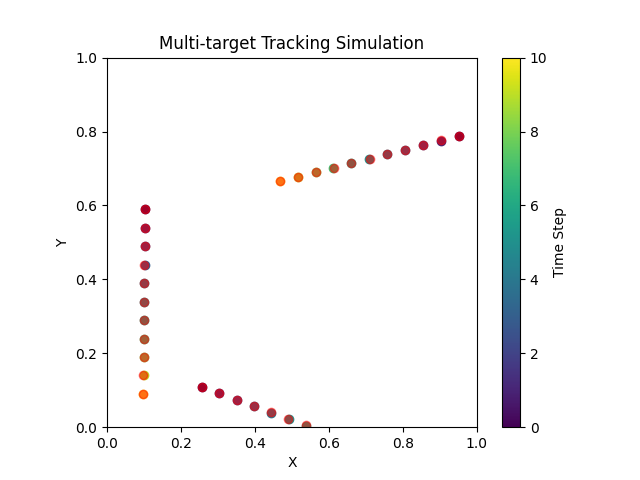
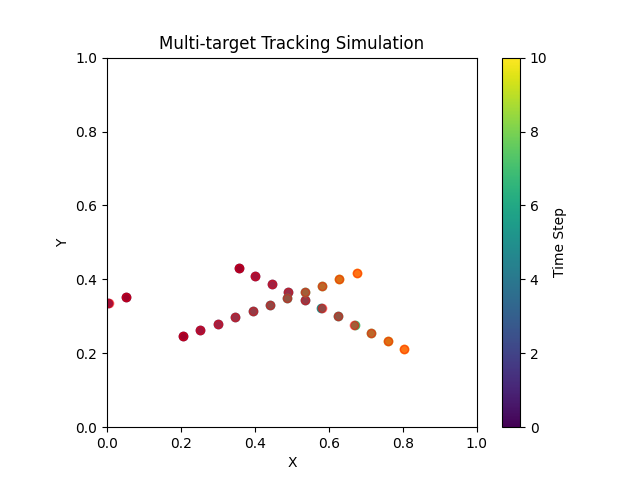
ck option

diff --git a/openmht/kalman_filter.py b/openmht/kalman_filter.py
@@ -8,7 +8,7 @@ __license__ = "GPL-3.0"
 
 class KalmanFilter:
     """Kalman filter for 2D & 3D vectors."""
-    def __init__(self, initial_observation, v=307200, dth=1000, k=0, q=1e-5, r=0.01, nmiss=3):
+    def __init__(self, initial_observation, v=307200, dth=1000, k=0, q=1e-5, r=0.01, nmiss=3, ck=False):
         self.__dims = len(initial_observation)
         x = np.ndarray(shape=(self.__dims, 1), dtype=float, buffer=np.array(initial_observation))
         self.__Q = np.diag(np.full(self.__dims, q))
@@ -18,10 +18,11 @@ class KalmanFilter:
         self.__R = r  # estimate of measurement variance, change to see effect
         self.__image_area = v
         self.__missed_detection_score = np.log(1. - (1. / self.__image_area))
-        self.__track_score = self.__missed_detection_score
+        self.__track_score = self.__missed_detection_score 
         self.__d_th = dth
         self.__nmiss = nmiss  # Number of missed detections
         self.v = False
+        self.ck = ck
 
     def get_track_score(self):
         """Return the track score."""
@@ -30,7 +31,7 @@ class KalmanFilter:
     def update(self, z):
         """Update the Kalman filter with a new observation."""
         if z is None:
-            self.__track_score += self.__missed_detection_score
+            self.__track_score += self.__missed_detection_score 
             
             # Increment missed detection counter
             self.__nmiss += 1
@@ -45,9 +46,7 @@ class KalmanFilter:
 
             # Time update
             x = np.ndarray(shape=(self.__dims, 1), dtype=float, buffer=np.array(z))
-            if self.v is False:
-                self.v = x - self.__xhat
-                print(self.v)
+            if self.ck and self.v is False: self.v = x - self.__xhat
             mu = self.__xhat + self.v
             sigma = self.__P + self.__Q
             d_squared = self.__mahalanobis_distance(x, mu, sigma)
@@ -58,7 +57,9 @@ class KalmanFilter:
 
                 # Measurement update
                 self.__K = sigma / (sigma + self.__R)
-                self.__xhat = mu + np.dot(self.__K, (x - mu))
+                x_hat = mu + np.dot(self.__K, (x - mu))
+                if self.ck: self.v = x_hat - self.__xhat
+                self.__xhat = x_hat
 
                 I = np.identity(self.__dims)
                 self.__P = (I - self.__K) * sigma

diff --git a/openmht/mht.py b/openmht/mht.py
@@ -58,6 +58,7 @@ class MHT:
         k = self.__params.get('k')
         q = self.__params.get('q')
         r = self.__params.get('r')
+        ck = self.__params.get('ck')
 
         # b_th = int(self.__params.pop())  # Max. number of track tree branches
         # nmiss = self.__params.nmiss  # Max. number of false observations in tracks
@@ -87,7 +88,7 @@ class MHT:
                 # Create a new branch with the current detection:
 
                 # Create a new Kalman filter
-                kalman_filters.append(KalmanFilter(detection, v=v, dth=dth, k=k, q=q, r=r, nmiss=nmiss))
+                kalman_filters.append(KalmanFilter(detection, v=v, dth=dth, k=k, q=q, r=r, nmiss=nmiss, ck=ck))
 
                 # Create a new track detection list (list of detection IDs for each frame)
                 # Each track detection list is a branch of the track tree, and is used to

diff --git a/run.py b/run.py
@@ -29,14 +29,15 @@ def generate_data():
 
 parameters = {
     'v': 307200,
-    'dth': 1500,
+    'dth': 5000,
     'k': 0,
     'q': 0.00001,
     'r': 0.01,
     'n': 3,
-    'bth': 100,
-    'nmiss': 5,
-    'pd': 0.95
+    'bth': 150,
+    'nmiss': 10,
+    'pd': 0.90,
+    'ck': False
 }
 
 # generate_data()
